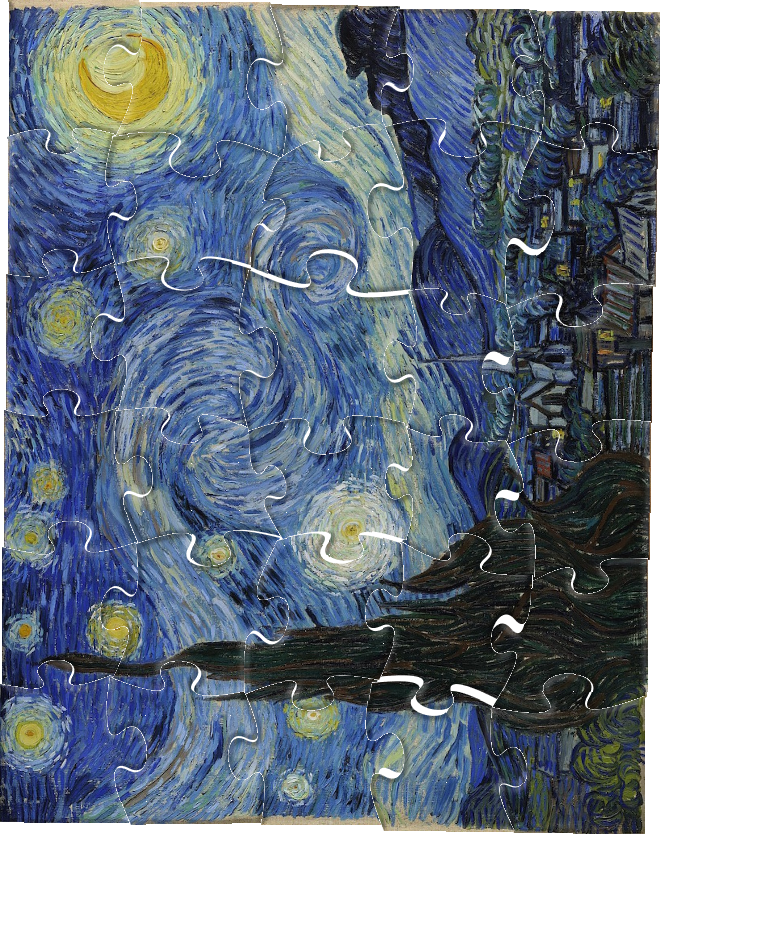
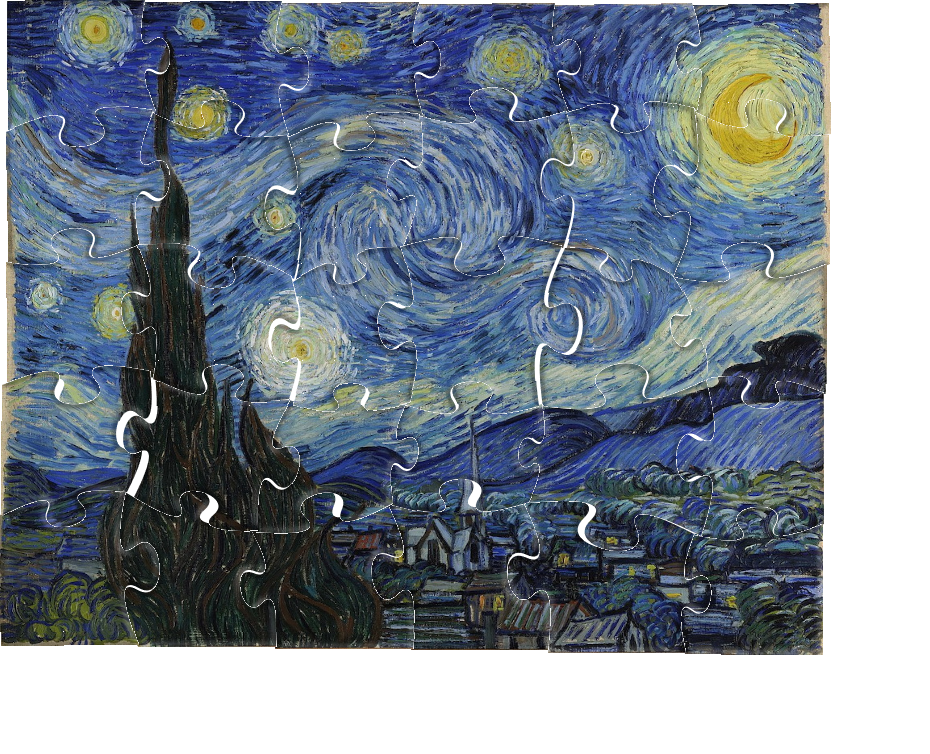
first piece aligned

diff --git a/src/Puzzle/Puzzle.py b/src/Puzzle/Puzzle.py
@@ -141,7 +141,40 @@ def get_candidate_by_length(ref_edge, pieces, candidate_num=10):
         if candidate_num > len(pieces) else np.argsort(diff).astype(int)[:]
     return np.array(pieces)[idx]
 
+#+==============================================================
+#Updated to align the first piece
+def get_info_align_to_axis(piece : PuzzlePiece):
+    border_edge = None
+    for edge in piece.edges_:
+        if edge.type == TypeEdge.BORDER:
+            border_edge = edge
 
+    r_x1, r_y1 = 1,2
+    r_x2, r_y2 = 1,1
+    r_theta = math.atan2(r_y2 - r_y1, r_x2 - r_x1)
+    _, theta, trans = rotate_edge_pixels(r_x1, r_y1, r_theta, edge=border_edge, task=0)
+    return theta, trans
+
+def rotate_translate_color(piece, theta, trans, largeBoard, boundaries = None):
+    # rotate, translate and color
+    rot_matrix = np.array([[np.cos(theta), np.sin(theta)], [-np.sin(theta), np.cos(theta)]])
+    for edge in piece.edges_:
+        edge.shape = edge.shape @ rot_matrix
+        edge.shape = edge.shape + trans
+    if boundaries is None :
+        x_size, y_size, _ = largeBoard.shape
+        minX, minY, maxX, maxY  = x_size -1, y_size-1, 0, 0
+    else :
+        (minX, minY, maxX, maxY) = boundaries
+    for pixel in piece.img_piece_:
+        pixel.pos = rot_matrix @ pixel.pos
+        x = int(pixel.pos[0] + trans[1])
+        y = int(pixel.pos[1] + trans[0])
+
+        minX, minY, maxX, maxY = boundary(x, y, minX, minY, maxX, maxY)
+        largeBoard[x][y] = pixel.color
+    return minX, minY, maxX, maxY
+#=========================================================================
 class Puzzle:
     def __init__(self, path):
         self.pieces_ = None
@@ -176,10 +209,9 @@ class Puzzle:
         # 코너 조각 하나를 complete_pieces 에 넣기;
         for b_piece in border_pieces:
             grid_completed[b_piece.position] = b_piece
-            for pixel in b_piece.img_piece_:
-                largeBoard[pixel.pos] = pixel.color
 
-                minX, minY, maxX, maxY = boundary(pixel.pos[0], pixel.pos[1], minX, minY, maxX, maxY)
+            theta, trans = get_info_align_to_axis(b_piece)
+            minX, minY, maxX, maxY = rotate_translate_color(b_piece, theta, trans, largeBoard)
 
             complete_pieces.append(b_piece)
             border_pieces.remove(b_piece)
